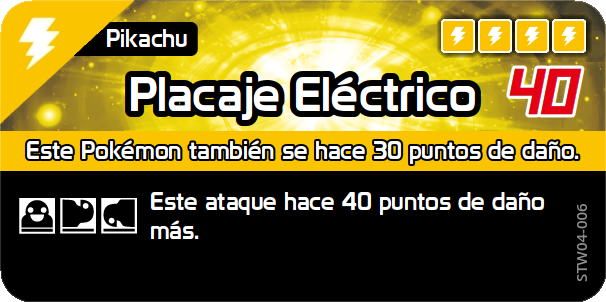
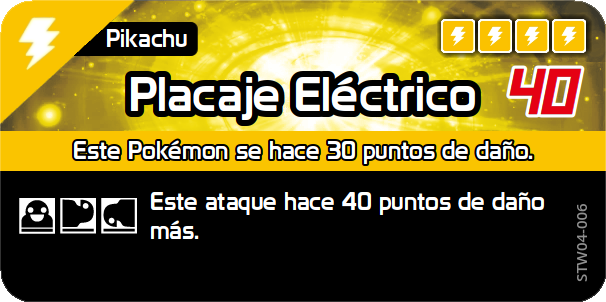
eliminar también

Changed region(s): [[0.0297, 0.447, 0.9802, 0.5662]]

diff --git a/database_es/text/wazacards/EB01/01-002_moltres.md b/database_es/text/wazacards/EB01/01-002_moltres.md
@@ -4,20 +4,20 @@
 
 #### Ala Ígnea
 
-| Nombre      | Ala Ígnea                                       |
-| ----------- | ----------------------------------------------- |
-| Japonés     | ほのおのつばさ                                  |
-| Tipo        | Fuego                                           |
-| Código      | EBW01-011                                       |
-| Pokémon     | Moltres                                         |
-| Energía     | {R}{R}                                          |
-| Daño        | 30                                              |
-| Efecto      |                                                 |
-| De pie      | Este ataque hace 30 puntos de daño más.         |
-| De cabeza   |                                                 |
-| Boca arriba | Este ataque hace 30 puntos de daño más.         |
-| Boca abajo  |                                                 |
-| De lado     | Este Pokémon también se hace 20 puntos de daño. |
+| Nombre      | Ala Ígnea                               |
+| ----------- | --------------------------------------- |
+| Japonés     | ほのおのつばさ                          |
+| Tipo        | Fuego                                   |
+| Código      | EBW01-011                               |
+| Pokémon     | Moltres                                 |
+| Energía     | {R}{R}                                  |
+| Daño        | 30                                      |
+| Efecto      |                                         |
+| De pie      | Este ataque hace 30 puntos de daño más. |
+| De cabeza   |                                         |
+| Boca arriba | Este ataque hace 30 puntos de daño más. |
+| Boca abajo  |                                         |
+| De lado     | Este Pokémon se hace 20 puntos de daño. |
 
 [Ala Ígnea](https://bandai-hobby.net/site/pokemon/plakoro/images/products/eb01/06/img_wazacard01.webp)
 
@@ -61,20 +61,20 @@
 
 #### Envite Ígneo
 
-| Nombre      | Envite Ígneo                                    |
-| ----------- | ----------------------------------------------- |
-| Japonés     | フレアドライブ                                  |
-| Tipo        | Fuego                                           |
-| Código      | EBW01-014                                       |
-| Pokémon     | Moltres                                         |
-| Energía     | {R}{R}{R}{R}{R}                                 |
-| Daño        | 50                                              |
-| Efecto      |                                                 |
-| De pie      | Este ataque hace 40 puntos de daño más.         |
-| De cabeza   | Este Pokémon también se hace 40 puntos de daño. |
-| Boca arriba | Este ataque hace 40 puntos de daño más.         |
-| Boca abajo  | Este ataque hace 40 puntos de daño más.         |
-| De lado     | Este Pokémon también se hace 40 puntos de daño. |
+| Nombre      | Envite Ígneo                            |
+| ----------- | --------------------------------------- |
+| Japonés     | フレアドライブ                          |
+| Tipo        | Fuego                                   |
+| Código      | EBW01-014                               |
+| Pokémon     | Moltres                                 |
+| Energía     | {R}{R}{R}{R}{R}                         |
+| Daño        | 50                                      |
+| Efecto      |                                         |
+| De pie      | Este ataque hace 40 puntos de daño más. |
+| De cabeza   | Este Pokémon se hace 40 puntos de daño. |
+| Boca arriba | Este ataque hace 40 puntos de daño más. |
+| Boca abajo  | Este ataque hace 40 puntos de daño más. |
+| De lado     | Este Pokémon se hace 40 puntos de daño. |
 
 [Envite Ígneo](https://bandai-hobby.net/site/pokemon/plakoro/images/products/eb01/06/img_wazacard04.webp)
 
@@ -118,20 +118,20 @@
 
 #### Aliento Ardiente
 
-| Nombre      | Aliento Ardiente                                |
-| ----------- | ----------------------------------------------- |
-| Japonés     | ヒートブレス                                    |
-| Tipo        | Fuego                                           |
-| Código      | EBW01-017                                       |
-| Pokémon     | Moltres                                         |
-| Energía     | {R}{R}{R}                                       |
-| Daño        | 40                                              |
-| Efecto      |                                                 |
-| De pie      | Este ataque hace 40 puntos de daño más.         |
-| De cabeza   | Este Pokémon también se hace 30 puntos de daño. |
-| Boca arriba | Este ataque hace 40 puntos de daño más.         |
-| Boca abajo  | Este Pokémon también se hace 30 puntos de daño. |
-| De lado     |                                                 |
+| Nombre      | Aliento Ardiente                        |
+| ----------- | --------------------------------------- |
+| Japonés     | ヒートブレス                            |
+| Tipo        | Fuego                                   |
+| Código      | EBW01-017                               |
+| Pokémon     | Moltres                                 |
+| Energía     | {R}{R}{R}                               |
+| Daño        | 40                                      |
+| Efecto      |                                         |
+| De pie      | Este ataque hace 40 puntos de daño más. |
+| De cabeza   | Este Pokémon se hace 30 puntos de daño. |
+| Boca arriba | Este ataque hace 40 puntos de daño más. |
+| Boca abajo  | Este Pokémon se hace 30 puntos de daño. |
+| De lado     |                                         |
 
 [Aliento Ardiente](https://bandai-hobby.net/site/pokemon/plakoro/images/products/eb01/06/img_wazacard07.webp)
 

diff --git a/database_es/text/wazacards/EB01/01-001_pinsir.md b/database_es/text/wazacards/EB01/01-001_pinsir.md
@@ -137,20 +137,20 @@
 
 #### Carga Descuidada
 
-| Nombre      | Carga Descuidada                                |
-| ----------- | ----------------------------------------------- |
-| Japonés     | とつげき                                        |
-| Tipo        | Planta                                          |
-| Código      | EBW01-008                                       |
-| Pokémon     | Pinsir                                          |
-| Energía     | {G}{G}{G}                                       |
-| Daño        | 30                                              |
-| Efecto      |                                                 |
-| De pie      | Este ataque hace 20 puntos de daño más.         |
-| De cabeza   | Este Pokémon también se hace 20 puntos de daño. |
-| Boca arriba | Este ataque hace 20 puntos de daño más.         |
-| Boca abajo  | Este Pokémon también se hace 20 puntos de daño. |
-| De lado     |                                                 |
+| Nombre      | Carga Descuidada                        |
+| ----------- | --------------------------------------- |
+| Japonés     | とつげき                                |
+| Tipo        | Planta                                  |
+| Código      | EBW01-008                               |
+| Pokémon     | Pinsir                                  |
+| Energía     | {G}{G}{G}                               |
+| Daño        | 30                                      |
+| Efecto      |                                         |
+| De pie      | Este ataque hace 20 puntos de daño más. |
+| De cabeza   | Este Pokémon se hace 20 puntos de daño. |
+| Boca arriba | Este ataque hace 20 puntos de daño más. |
+| Boca abajo  | Este Pokémon se hace 20 puntos de daño. |
+| De lado     |                                         |
 
 [Carga Descuidada](https://bandai-hobby.net/site/pokemon/plakoro/images/products/eb01/03/img_wazacard08.webp)
 
@@ -175,19 +175,19 @@
 
 #### Sumisión
 
-| Nombre      | Sumisión                                        |
-| ----------- | ----------------------------------------------- |
-| Japonés     | じごくぐるま                                    |
-| Tipo        | Lucha                                           |
-| Código      | EBW01-010                                       |
-| Pokémon     | Pinsir                                          |
-| Energía     | {F}{C}{C}{C}                                    |
-| Daño        | 30                                              |
-| Efecto      | Este Pokémon también se hace 20 puntos de daño. |
-| De pie      | Este ataque hace 30 puntos de daño más.         |
-| De cabeza   | Este ataque hace 30 puntos de daño más.         |
-| Boca arriba | Este ataque hace 30 puntos de daño más.         |
-| Boca abajo  | Este ataque hace 30 puntos de daño más.         |
-| De lado     |                                                 |
+| Nombre      | Sumisión                                |
+| ----------- | --------------------------------------- |
+| Japonés     | じごくぐるま                            |
+| Tipo        | Lucha                                   |
+| Código      | EBW01-010                               |
+| Pokémon     | Pinsir                                  |
+| Energía     | {F}{C}{C}{C}                            |
+| Daño        | 30                                      |
+| Efecto      | Este Pokémon se hace 20 puntos de daño. |
+| De pie      | Este ataque hace 30 puntos de daño más. |
+| De cabeza   | Este ataque hace 30 puntos de daño más. |
+| Boca arriba | Este ataque hace 30 puntos de daño más. |
+| Boca abajo  | Este ataque hace 30 puntos de daño más. |
+| De lado     |                                         |
 
 [Sumisión](https://bandai-hobby.net/site/pokemon/plakoro/images/products/eb01/03/img_wazacard10.webp)

diff --git a/database_es/text/wazacards/EB01/01-006_grimer.md b/database_es/text/wazacards/EB01/01-006_grimer.md
@@ -137,20 +137,20 @@
 
 #### Placaje Venenoso ?
 
-| Nombre      | Placaje Venenoso ?                              |
-| ----------- | ----------------------------------------------- |
-| Japonés     | ヘドロタックル                                  |
-| Tipo        | Siniestro                                       |
-| Código      | EBW01-059                                       |
-| Pokémon     | Grimer                                          |
-| Energía     | {D}{D}{D}                                       |
-| Daño        | 20                                              |
-| Efecto      |                                                 |
-| De pie      | Este ataque hace 40 puntos de daño más.         |
-| De cabeza   | Este Pokémon también se hace 20 puntos de daño. |
-| Boca arriba | Este Pokémon también se hace 20 puntos de daño. |
-| Boca abajo  | Este Pokémon también se hace 20 puntos de daño. |
-| De lado     | Este ataque hace 40 puntos de daño más.         |
+| Nombre      | Placaje Venenoso ?                      |
+| ----------- | --------------------------------------- |
+| Japonés     | ヘドロタックル                          |
+| Tipo        | Siniestro                               |
+| Código      | EBW01-059                               |
+| Pokémon     | Grimer                                  |
+| Energía     | {D}{D}{D}                               |
+| Daño        | 20                                      |
+| Efecto      |                                         |
+| De pie      | Este ataque hace 40 puntos de daño más. |
+| De cabeza   | Este Pokémon se hace 20 puntos de daño. |
+| Boca arriba | Este Pokémon se hace 20 puntos de daño. |
+| Boca abajo  | Este Pokémon se hace 20 puntos de daño. |
+| De lado     | Este ataque hace 40 puntos de daño más. |
 
 [Placaje Venenoso](https://bandai-hobby.net/site/pokemon/plakoro/images/products/eb01/01/img_wazacard09.webp)
 

diff --git a/database_es/text/wazacards/EB01/01-005_onix.md b/database_es/text/wazacards/EB01/01-005_onix.md
@@ -137,20 +137,20 @@
 
 #### Placaje Salvaje
 
-| Nombre      | Placaje Salvaje                                 |
-| ----------- | ----------------------------------------------- |
-| Japonés     | ワイルドタックル                                |
-| Tipo        | Lucha                                           |
-| Código      | EBW01-048                                       |
-| Pokémon     | Onix                                            |
-| Energía     | {F}{F}{F}                                       |
-| Daño        | 30                                              |
-| Efecto      |                                                 |
-| De pie      | Este ataque hace 20 puntos de daño más.         |
-| De cabeza   | Este Pokémon también se hace 20 puntos de daño. |
-| Boca arriba | Este ataque hace 20 puntos de daño más.         |
-| Boca abajo  | Este Pokémon también se hace 20 puntos de daño. |
-| De lado     | Este Pokémon también se hace 20 puntos de daño. |
+| Nombre      | Placaje Salvaje                         |
+| ----------- | --------------------------------------- |
+| Japonés     | ワイルドタックル                        |
+| Tipo        | Lucha                                   |
+| Código      | EBW01-048                               |
+| Pokémon     | Onix                                    |
+| Energía     | {F}{F}{F}                               |
+| Daño        | 30                                      |
+| Efecto      |                                         |
+| De pie      | Este ataque hace 20 puntos de daño más. |
+| De cabeza   | Este Pokémon se hace 20 puntos de daño. |
+| Boca arriba | Este ataque hace 20 puntos de daño más. |
+| Boca abajo  | Este Pokémon se hace 20 puntos de daño. |
+| De lado     | Este Pokémon se hace 20 puntos de daño. |
 
 [Placaje Salvaje](https://bandai-hobby.net/site/pokemon/plakoro/images/products/eb01/02/img_wazacard08.webp)
 

diff --git a/database_es/text/wazacards/ST/04-001_pikachu.md b/database_es/text/wazacards/ST/04-001_pikachu.md
@@ -99,20 +99,20 @@
 
 #### Placaje Eléctrico
 
-| Nombre      | Placaje Eléctrico                               |
-| ----------- | ----------------------------------------------- |
-| Japonés     | ボルテッカー                                    |
-| Tipo        | Eléctrico                                       |
-| Código      | STW04-006                                       |
-| Pokémon     | Pikachu                                         |
-| Energía     | {L}{L}{L}{L}                                    |
-| Daño        | 40                                              |
-| Efecto      | Este Pokémon también se hace 30 puntos de daño. |
-| De pie      | Este ataque hace 40 puntos de daño más.         |
-| De cabeza   |                                                 |
-| Boca arriba | Este ataque hace 40 puntos de daño más.         |
-| Boca abajo  | Este ataque hace 40 puntos de daño más.         |
-| De lado     |                                                 |
+| Nombre      | Placaje Eléctrico                       |
+| ----------- | --------------------------------------- |
+| Japonés     | ボルテッカー                            |
+| Tipo        | Eléctrico                               |
+| Código      | STW04-006                               |
+| Pokémon     | Pikachu                                 |
+| Energía     | {L}{L}{L}{L}                            |
+| Daño        | 40                                      |
+| Efecto      | Este Pokémon se hace 30 puntos de daño. |
+| De pie      | Este ataque hace 40 puntos de daño más. |
+| De cabeza   |                                         |
+| Boca arriba | Este ataque hace 40 puntos de daño más. |
+| Boca abajo  | Este ataque hace 40 puntos de daño más. |
+| De lado     |                                         |
 
 [Placaje Eléctrico](https://bandai-hobby.net/site/pokemon/plakoro/images/products/st04/01/img_wazacard06.webp)
 

diff --git a/database_es/text/wazacards/ST/01-001_bulbasaur.md b/database_es/text/wazacards/ST/01-001_bulbasaur.md
@@ -80,20 +80,20 @@
 
 #### Carga Descuidada
 
-| Nombre      | Carga Descuidada                                |
-| ----------- | ----------------------------------------------- |
-| Japonés     | とつげき                                        |
-| Tipo        | Planta                                          |
-| Código      | STW01-005                                       |
-| Pokémon     | Bulbasaur                                       |
-| Energía     | {G}{G}{G}                                       |
-| Daño        | 30                                              |
-| Efecto      |                                                 |
-| De pie      | Este ataque hace 40 puntos de daño más.         |
-| De cabeza   | Este Pokémon también se hace 30 puntos de daño. |
-| Boca arriba | Este ataque hace 40 puntos de daño más.         |
-| Boca abajo  | Este Pokémon también se hace 30 puntos de daño. |
-| De lado     |                                                 |
+| Nombre      | Carga Descuidada                        |
+| ----------- | --------------------------------------- |
+| Japonés     | とつげき                                |
+| Tipo        | Planta                                  |
+| Código      | STW01-005                               |
+| Pokémon     | Bulbasaur                               |
+| Energía     | {G}{G}{G}                               |
+| Daño        | 30                                      |
+| Efecto      |                                         |
+| De pie      | Este ataque hace 40 puntos de daño más. |
+| De cabeza   | Este Pokémon se hace 30 puntos de daño. |
+| Boca arriba | Este ataque hace 40 puntos de daño más. |
+| Boca abajo  | Este Pokémon se hace 30 puntos de daño. |
+| De lado     |                                         |
 
 [Carga Descuidada](https://bandai-hobby.net/site/pokemon/plakoro/images/products/st01/01/img_wazacard05.webp)
 

diff --git a/database_es/text/wazacards/ST/05-001_eevee.md b/database_es/text/wazacards/ST/05-001_eevee.md
@@ -42,20 +42,20 @@
 
 #### Derribo
 
-| Nombre      | Derribo                                         |
-| ----------- | ----------------------------------------------- |
-| Japonés     | とっしん                                        |
-| Tipo        | Normal                                          |
-| Código      | STW05-003                                       |
-| Pokémon     | Eevee                                           |
-| Energía     | {Y}{Y}                                          |
-| Daño        | 30                                              |
-| Efecto      |                                                 |
-| De pie      | Este ataque hace 20 puntos de daño más.         |
-| De cabeza   | Este Pokémon también se hace 20 puntos de daño. |
-| Boca arriba | Este ataque hace 20 puntos de daño más.         |
-| Boca abajo  | Este Pokémon también se hace 20 puntos de daño. |
-| De lado     |                                                 |
+| Nombre      | Derribo                                 |
+| ----------- | --------------------------------------- |
+| Japonés     | とっしん                                |
+| Tipo        | Normal                                  |
+| Código      | STW05-003                               |
+| Pokémon     | Eevee                                   |
+| Energía     | {Y}{Y}                                  |
+| Daño        | 30                                      |
+| Efecto      |                                         |
+| De pie      | Este ataque hace 20 puntos de daño más. |
+| De cabeza   | Este Pokémon se hace 20 puntos de daño. |
+| Boca arriba | Este ataque hace 20 puntos de daño más. |
+| Boca abajo  | Este Pokémon se hace 20 puntos de daño. |
+| De lado     |                                         |
 
 [Derribo](https://bandai-hobby.net/site/pokemon/plakoro/images/products/st05/01/img_wazacard03.webp)
 

diff --git a/database_es/text/wazacards/ST/08-001_metagross.md b/database_es/text/wazacards/ST/08-001_metagross.md
@@ -126,7 +126,7 @@
 | Pokémon     | Metagross                                            |
 | Energía     | {C}{C}{C}{C}{C}                                      |
 | Daño        | 100                                                  |
-| Efecto      | Este Pokémon también se hace 120 puntos de daño.     |
+| Efecto      | Este Pokémon se hace 120 puntos de daño.             |
 | De pie      | Evita el daño que este ataque causaría a tu Pokémon. |
 | De cabeza   |                                                      |
 | Boca arriba |                                                      |
